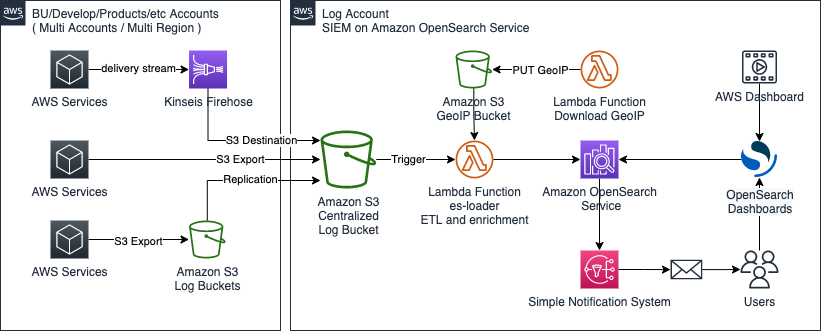
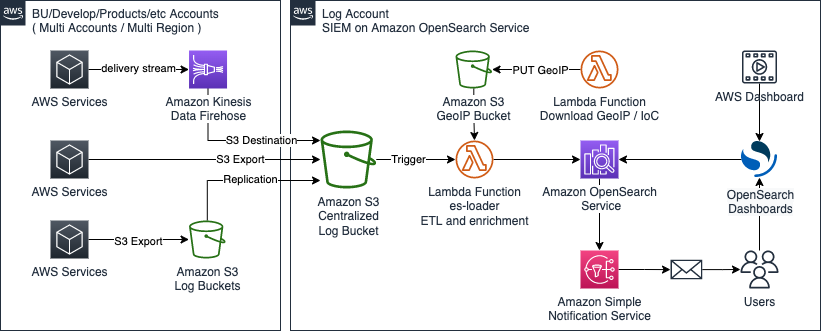
updated docs to add cloudformation template links for all region

diff --git a/docs/cloudformation_list_ja.md b/docs/cloudformation_list_ja.md
@@ -1,0 +1,38 @@
+# CloudFormation テンプレート 全リージョン
+
+[In English](cloudformation_list.md) | [READMEに戻る](../README_ja.md)
+
+SIEM on OpenSearch Service をデプロイするリージョンを選択してください。
+
+| リージョン | CloudFormation | Template URL |
+|----------|----------------|---------------|
+| 米国東部 (バージニア北部) us-east-1 |[![Deploy in us-east-1](./images/cloudformation-launch-stack-button.png)](https://console.aws.amazon.com/cloudformation/home?region=us-east-1#/stacks/new?stackName=siem&templateURL=https://aes-siem-us-east-1.s3.amazonaws.com/siem-on-amazon-opensearch-service.template) | `https://aes-siem-us-east-1.s3.amazonaws.com/siem-on-amazon-opensearch-service.template` |
+| 米国東部 (オハイオ) us-east-2 |[![Deploy in us-east-2](./images/cloudformation-launch-stack-button.png)](https://console.aws.amazon.com/cloudformation/home?region=us-east-2#/stacks/new?stackName=siem&templateURL=https://aes-siem-us-east-2.s3.amazonaws.com/siem-on-amazon-opensearch-service.template) | `https://aes-siem-us-east-2.s3.amazonaws.com/siem-on-amazon-opensearch-service.template` |
+| 米国西部 (北カリフォルニア) us-west-1 |[![Deploy in us-west-1](./images/cloudformation-launch-stack-button.png)](https://console.aws.amazon.com/cloudformation/home?region=us-west-1#/stacks/new?stackName=siem&templateURL=https://aes-siem-us-west-1.s3.amazonaws.com/siem-on-amazon-opensearch-service.template) | `https://aes-siem-us-west-1.s3.amazonaws.com/siem-on-amazon-opensearch-service.template` |
+| 米国西部 (オレゴン) us-west-2 |[![Deploy in us-west-2](./images/cloudformation-launch-stack-button.png)](https://console.aws.amazon.com/cloudformation/home?region=us-west-2#/stacks/new?stackName=siem&templateURL=https://aes-siem-us-west-2.s3.amazonaws.com/siem-on-amazon-opensearch-service.template) | `https://aes-siem-us-west-2.s3.amazonaws.com/siem-on-amazon-opensearch-service.template` |
+||||
+| アフリカ (ケープタウン) af-south-1 |[![Deploy in af-south-1](./images/cloudformation-launch-stack-button.png)](https://console.aws.amazon.com/cloudformation/home?region=af-south-1#/stacks/new?stackName=siem&templateURL=https://aes-siem-af-south-1.s3.amazonaws.com/siem-on-amazon-opensearch-service.template) | `https://aes-siem-af-south-1.s3.amazonaws.com/siem-on-amazon-opensearch-service.template` |
+||||
+| アジアパシフィック (香港) ap-east-1 |[![Deploy in ap-east-1](./images/cloudformation-launch-stack-button.png)](https://console.aws.amazon.com/cloudformation/home?region=ap-east-1#/stacks/new?stackName=siem&templateURL=https://aes-siem-ap-east-1.s3.amazonaws.com/siem-on-amazon-opensearch-service.template) | `https://aes-siem-ap-east-1.s3.amazonaws.com/siem-on-amazon-opensearch-service.template` |
+| アジアパシフィック (ジャカルタ) ap-southeast-3 |[![Deploy in ap-southeast-3](./images/cloudformation-launch-stack-button.png)](https://console.aws.amazon.com/cloudformation/home?region=ap-southeast-3#/stacks/new?stackName=siem&templateURL=https://aes-siem-ap-southeast-3.s3.amazonaws.com/siem-on-amazon-opensearch-service.template) | `https://aes-siem-ap-southeast-3.s3.amazonaws.com/siem-on-amazon-opensearch-service.template` |
+| アジアパシフィック (ムンバイ) ap-south-1 |[![Deploy in ap-south-1](./images/cloudformation-launch-stack-button.png)](https://console.aws.amazon.com/cloudformation/home?region=ap-south-1#/stacks/new?stackName=siem&templateURL=https://aes-siem-ap-south-1.s3.amazonaws.com/siem-on-amazon-opensearch-service.template) | `https://aes-siem-ap-south-1.s3.amazonaws.com/siem-on-amazon-opensearch-service.template` |
+| アジアパシフィック (大阪) ap-northeast-3 (※) |[![Deploy in ap-northeast-3](./images/cloudformation-launch-stack-button.png)](https://console.aws.amazon.com/cloudformation/home?region=ap-northeast-3#/stacks/new?stackName=siem&templateURL=https://aes-siem-ap-northeast-3.s3.amazonaws.com/siem-on-amazon-opensearch-service.template) | `https://aes-siem-ap-northeast-3.s3.amazonaws.com/siem-on-amazon-opensearch-service.template` |
+| アジアパシフィック (ソウル) ap-northeast-2 |[![Deploy in ap-northeast-2](./images/cloudformation-launch-stack-button.png)](https://console.aws.amazon.com/cloudformation/home?region=ap-northeast-2#/stacks/new?stackName=siem&templateURL=https://aes-siem-ap-northeast-2.s3.amazonaws.com/siem-on-amazon-opensearch-service.template) | `https://aes-siem-ap-northeast-2.s3.amazonaws.com/siem-on-amazon-opensearch-service.template` |
+| アジアパシフィック (シンガポール) ap-southeast-1 |[![Deploy in ap-southeast-1](./images/cloudformation-launch-stack-button.png)](https://console.aws.amazon.com/cloudformation/home?region=ap-southeast-1#/stacks/new?stackName=siem&templateURL=https://aes-siem-ap-southeast-1.s3.amazonaws.com/siem-on-amazon-opensearch-service.template) | `https://aes-siem-ap-southeast-1.s3.amazonaws.com/siem-on-amazon-opensearch-service.template` |
+| アジアパシフィック (シドニー) ap-southeast-2 |[![Deploy in ap-southeast-2](./images/cloudformation-launch-stack-button.png)](https://console.aws.amazon.com/cloudformation/home?region=ap-southeast-2#/stacks/new?stackName=siem&templateURL=https://aes-siem-ap-southeast-2.s3.amazonaws.com/siem-on-amazon-opensearch-service.template) | `https://aes-siem-ap-southeast-2.s3.amazonaws.com/siem-on-amazon-opensearch-service.template` |
+| アジアパシフィック (東京) ap-northeast-1 |[![Deploy in ap-northeast-1](./images/cloudformation-launch-stack-button.png)](https://console.aws.amazon.com/cloudformation/home?region=ap-northeast-1#/stacks/new?stackName=siem&templateURL=https://aes-siem-ap-northeast-1.s3.amazonaws.com/siem-on-amazon-opensearch-service.template) | `https://aes-siem-ap-northeast-1.s3.amazonaws.com/siem-on-amazon-opensearch-service.template` |
+||||
+| カナダ (中部) ca-central-1 |[![Deploy in ca-central-1](./images/cloudformation-launch-stack-button.png)](https://console.aws.amazon.com/cloudformation/home?region=ca-central-1#/stacks/new?stackName=siem&templateURL=https://aes-siem-ca-central-1.s3.amazonaws.com/siem-on-amazon-opensearch-service.template) | `https://aes-siem-ca-central-1.s3.amazonaws.com/siem-on-amazon-opensearch-service.template` |
+||||
+| 欧州 (フランクフルト) eu-central-1 |[![Deploy in eu-central-1](./images/cloudformation-launch-stack-button.png)](https://console.aws.amazon.com/cloudformation/home?region=eu-central-1#/stacks/new?stackName=siem&templateURL=https://aes-siem-eu-central-1.s3.amazonaws.com/siem-on-amazon-opensearch-service.template) | `https://aes-siem-eu-central-1.s3.amazonaws.com/siem-on-amazon-opensearch-service.template` |
+| 欧州 (アイルランド) eu-west-1 |[![Deploy in eu-west-1](./images/cloudformation-launch-stack-button.png)](https://console.aws.amazon.com/cloudformation/home?region=eu-west-1#/stacks/new?stackName=siem&templateURL=https://aes-siem-eu-west-1.s3.amazonaws.com/siem-on-amazon-opensearch-service.template) | `https://aes-siem-eu-west-1.s3.amazonaws.com/siem-on-amazon-opensearch-service.template` |
+| 欧州 (ロンドン) eu-west-2 |[![Deploy in eu-west-2](./images/cloudformation-launch-stack-button.png)](https://console.aws.amazon.com/cloudformation/home?region=eu-west-2#/stacks/new?stackName=siem&templateURL=https://aes-siem-eu-west-2.s3.amazonaws.com/siem-on-amazon-opensearch-service.template) | `https://aes-siem-eu-west-2.s3.amazonaws.com/siem-on-amazon-opensearch-service.template` |
+| 欧州 (ミラノ) eu-south-1 |[![Deploy in eu-south-1](./images/cloudformation-launch-stack-button.png)](https://console.aws.amazon.com/cloudformation/home?region=eu-south-1#/stacks/new?stackName=siem&templateURL=https://aes-siem-eu-south-1.s3.amazonaws.com/siem-on-amazon-opensearch-service.template) | `https://aes-siem-eu-south-1.s3.amazonaws.com/siem-on-amazon-opensearch-service.template` |
+| 欧州 (パリ) eu-west-3 |[![Deploy in eu-west-3](./images/cloudformation-launch-stack-button.png)](https://console.aws.amazon.com/cloudformation/home?region=eu-west-3#/stacks/new?stackName=siem&templateURL=https://aes-siem-eu-west-3.s3.amazonaws.com/siem-on-amazon-opensearch-service.template) | `https://aes-siem-eu-west-3.s3.amazonaws.com/siem-on-amazon-opensearch-service.template` |
+| 欧州 (ストックホルム) eu-north-1 |[![Deploy in eu-north-1](./images/cloudformation-launch-stack-button.png)](https://console.aws.amazon.com/cloudformation/home?region=eu-north-1#/stacks/new?stackName=siem&templateURL=https://aes-siem-eu-north-1.s3.amazonaws.com/siem-on-amazon-opensearch-service.template) | `https://aes-siem-eu-north-1.s3.amazonaws.com/siem-on-amazon-opensearch-service.template` |
+||||
+| 中東 (バーレーン) me-south-1 |[![Deploy in me-south-1](./images/cloudformation-launch-stack-button.png)](https://console.aws.amazon.com/cloudformation/home?region=me-south-1#/stacks/new?stackName=siem&templateURL=https://aes-siem-me-south-1.s3.amazonaws.com/siem-on-amazon-opensearch-service.template) | `https://aes-siem-me-south-1.s3.amazonaws.com/siem-on-amazon-opensearch-service.template` |
+||||
+| 南米 (サンパウロ) sa-east-1 |[![Deploy in sa-east-1](./images/cloudformation-launch-stack-button.png)](https://console.aws.amazon.com/cloudformation/home?region=sa-east-1#/stacks/new?stackName=siem&templateURL=https://aes-siem-sa-east-1.s3.amazonaws.com/siem-on-amazon-opensearch-service.template) | `https://aes-siem-sa-east-1.s3.amazonaws.com/siem-on-amazon-opensearch-service.template` |
+
+> (※) 大阪リージョンのみ導入時は r5.large.search インスタンスでデプロイされます

diff --git a/README.md b/README.md
@@ -3,7 +3,7 @@
 
 [View this page in Japanese (日本語)](README_ja.md) | [Chinese (简体中文)](README_zh-cn.md) | [Chinese (繁體中文)](README_zh-tw.md)
 
-SIEM on Amazon OpenSearch Service (successor to SIEM on Amazon Elasticsearch Service) is a solution for collecting multiple types of logs from multiple AWS accounts, correlating and visualizing the logs to help investigate security incidents. Deployment is easily done with the help of AWS CloudFormation or AWS Cloud Development Kit (AWS CDK), taking only about 30 minutes to complete. As soon as AWS services logs are put into a specified Amazon Simple Storage Service (Amazon S3) bucket, a purpose-built AWS Lambda function automatically loads those logs into SIEM on OpenSearch Service, enabling you to view visualized logs in the dashboard and correlate multiple logs to investigate security incidents.
+SIEM on Amazon OpenSearch Service is a solution for collecting multiple types of logs from multiple AWS accounts, correlating and visualizing the logs to help investigate security incidents. Deployment is easily done with the help of AWS CloudFormation or AWS Cloud Development Kit (AWS CDK), taking only about 30 minutes to complete. As soon as AWS services logs are put into a specified Amazon Simple Storage Service (Amazon S3) bucket, a purpose-built AWS Lambda function automatically loads those logs into SIEM on OpenSearch Service, enabling you to view visualized logs in the dashboard and correlate multiple logs to investigate security incidents.
 
 Jump to | [Configuring AWS Services(Log Sources)](docs/configure_aws_service.md) | [Changing Configurations of SIEM on OpenSearch Service](docs/configure_siem.md) | [Advanced Deployment](docs/deployment.md) | [Dashboard](docs/dashboard.md) | [Supported Log Types](docs/suppoted_log_type.md) | [FAQ](docs/faq.md) | [Changelog](CHANGELOG.md) |
 
@@ -11,7 +11,7 @@ Jump to | [Configuring AWS Services(Log Sources)](docs/configure_aws_service.md)
 
 ## Architecture
 
-![Architecture](./docs/images/siem-architecture.png)
+![Architecture](./docs/images/siem-architecture.svg)
 
 ## Supported Log Types
 
@@ -70,22 +70,16 @@ You can add country information as well as latitude/longitude location informati
 
 ### 1. Quick Start
 
-Choose a region where you want to deploy SIEM on OpenSearch Service from the following:
+Choose a region where you want to deploy SIEM on OpenSearch Service from the following. If there is no region below, please check [CloudFormation Template For All Regions](docs/cloudformation_list.md).
 
 | Region | CloudFormation | Template URL |
 |--------|----------------|--------------|
-| US East (N. Virginia)us-east-1 |[![Deploy in us-east-1](./docs/images/cloudformation-launch-stack-button.png)](https://console.aws.amazon.com/cloudformation/home?region=us-east-1#/stacks/new?stackName=siem&templateURL=https://aes-siem-us-east-1.s3.amazonaws.com/siem-on-amazon-opensearch-service.template) | `https://aes-siem-us-east-1.s3.amazonaws.com/siem-on-amazon-opensearch-service.template` |
-| US West (Oregon)us-west-2 |[![Deploy in us-west-2](./docs/images/cloudformation-launch-stack-button.png)](https://console.aws.amazon.com/cloudformation/home?region=us-west-2#/stacks/new?stackName=siem&templateURL=https://aes-siem-us-west-2.s3.amazonaws.com/siem-on-amazon-opensearch-service.template) | `https://aes-siem-us-west-2.s3.amazonaws.com/siem-on-amazon-opensearch-service.template` |
-| Asia Pacific (Tokyo)ap-northeast-1 |[![Deploy in ap-northeast-1](./docs/images/cloudformation-launch-stack-button.png)](https://console.aws.amazon.com/cloudformation/home?region=ap-northeast-1#/stacks/new?stackName=siem&templateURL=https://aes-siem-ap-northeast-1.s3.amazonaws.com/siem-on-amazon-opensearch-service.template) | `https://aes-siem-ap-northeast-1.s3.amazonaws.com/siem-on-amazon-opensearch-service.template` |
-| Asia Pacific (Singapore)ap-southeast-1 |[![Deploy in ap-southeast-1](./docs/images/cloudformation-launch-stack-button.png)](https://console.aws.amazon.com/cloudformation/home?region=ap-southeast-1#/stacks/new?stackName=siem&templateURL=https://aes-siem-ap-southeast-1.s3.amazonaws.com/siem-on-amazon-opensearch-service.template) | `https://aes-siem-ap-southeast-1.s3.amazonaws.com/siem-on-amazon-opensearch-service.template` |
-| Europe (Frankfurt)eu-central-1 |[![Deploy in eu-central-1](./docs/images/cloudformation-launch-stack-button.png)](https://console.aws.amazon.com/cloudformation/home?region=eu-central-1#/stacks/new?stackName=siem&templateURL=https://aes-siem-eu-central-1.s3.amazonaws.com/siem-on-amazon-opensearch-service.template) | `https://aes-siem-eu-central-1.s3.amazonaws.com/siem-on-amazon-opensearch-service.template` |
-| Europe (London)eu-west-2 |[![Deploy in eu-west-2](./docs/images/cloudformation-launch-stack-button.png)](https://console.aws.amazon.com/cloudformation/home?region=eu-west-2#/stacks/new?stackName=siem&templateURL=https://aes-siem-eu-west-2.s3.amazonaws.com/siem-on-amazon-opensearch-service.template) | `https://aes-siem-eu-west-2.s3.amazonaws.com/siem-on-amazon-opensearch-service.template` |
-
-If your desired region is not listed above, manually choose the template below:
-
-```text
-https://aes-siem-<REGION>.s3.amazonaws.com/siem-on-amazon-opensearch-service.template
-```
+| US East (N. Virginia)<br>us-east-1 |[![Deploy in us-east-1](./docs/images/cloudformation-launch-stack-button.png)](https://console.aws.amazon.com/cloudformation/home?region=us-east-1#/stacks/new?stackName=siem&templateURL=https://aes-siem-us-east-1.s3.amazonaws.com/siem-on-amazon-opensearch-service.template) | `https://aes-siem-us-east-1.s3.amazonaws.com/siem-on-amazon-opensearch-service.template` |
+| US West (Oregon)<br>us-west-2 |[![Deploy in us-west-2](./docs/images/cloudformation-launch-stack-button.png)](https://console.aws.amazon.com/cloudformation/home?region=us-west-2#/stacks/new?stackName=siem&templateURL=https://aes-siem-us-west-2.s3.amazonaws.com/siem-on-amazon-opensearch-service.template) | `https://aes-siem-us-west-2.s3.amazonaws.com/siem-on-amazon-opensearch-service.template` |
+| Asia Pacific (Tokyo)<br>ap-northeast-1 |[![Deploy in ap-northeast-1](./docs/images/cloudformation-launch-stack-button.png)](https://console.aws.amazon.com/cloudformation/home?region=ap-northeast-1#/stacks/new?stackName=siem&templateURL=https://aes-siem-ap-northeast-1.s3.amazonaws.com/siem-on-amazon-opensearch-service.template) | `https://aes-siem-ap-northeast-1.s3.amazonaws.com/siem-on-amazon-opensearch-service.template` |
+| Asia Pacific (Singapore)<br>ap-southeast-1 |[![Deploy in ap-southeast-1](./docs/images/cloudformation-launch-stack-button.png)](https://console.aws.amazon.com/cloudformation/home?region=ap-southeast-1#/stacks/new?stackName=siem&templateURL=https://aes-siem-ap-southeast-1.s3.amazonaws.com/siem-on-amazon-opensearch-service.template) | `https://aes-siem-ap-southeast-1.s3.amazonaws.com/siem-on-amazon-opensearch-service.template` |
+| Europe (Frankfurt)<br>eu-central-1 |[![Deploy in eu-central-1](./docs/images/cloudformation-launch-stack-button.png)](https://console.aws.amazon.com/cloudformation/home?region=eu-central-1#/stacks/new?stackName=siem&templateURL=https://aes-siem-eu-central-1.s3.amazonaws.com/siem-on-amazon-opensearch-service.template) | `https://aes-siem-eu-central-1.s3.amazonaws.com/siem-on-amazon-opensearch-service.template` |
+| Europe (London)<br>eu-west-2 |[![Deploy in eu-west-2](./docs/images/cloudformation-launch-stack-button.png)](https://console.aws.amazon.com/cloudformation/home?region=eu-west-2#/stacks/new?stackName=siem&templateURL=https://aes-siem-eu-west-2.s3.amazonaws.com/siem-on-amazon-opensearch-service.template) | `https://aes-siem-eu-west-2.s3.amazonaws.com/siem-on-amazon-opensearch-service.template` |
 
 Or you can create your own template by following the steps below.
 
@@ -178,12 +172,12 @@ If you want to update "SIEM on OpenSearch Service/SIEM on Amazon ES" to the late
 
 ### Upgrading the OpenSearch Service domain
 
-Upgrade the domain to OpenSearch 1.2, 1.1, 1.0 or Elasticsearch version 7.10. Some Dashboards assume OpenSearch Service 1.1 or higher, so the recommended version is OpenSearch Service 1.2 with "Enable compatibility mode":
+Upgrade the domain to OpenSearch 1.3, 1.2, 1.1, 1.0 or Elasticsearch version 7.10. Some Dashboards assume OpenSearch Service 1.1 or higher, so the recommended version is OpenSearch Service 1.3 with "Enable compatibility mode":
 
 1. Navigate to the [OpenSearch Service console](https://console.aws.amazon.com/es/home?)
 1. Choose domain: [**aes-siem**]
 1. Choose [**Actions**] icon, and choose [**Upgrade domain**] from the drop-down menu
-1. For "Version to upgrade to", choose [**OpenSearch 1.2**] (Recommended), [**OpenSearch 1.1**], [**OpenSearch 1.0**] or [**Elasticsearch 7.10**]
+1. For "Version to upgrade to", choose [**OpenSearch 1.3**] (Recommended), [**OpenSearch 1.2**], [**OpenSearch 1.1**], [**OpenSearch 1.0**] or [**Elasticsearch 7.10**]
 1. Choose "Enable compatibility mode" (Recommended)
 1. Then choose [**Submit**]
 
@@ -230,7 +224,7 @@ Below is the list of AWS resources created by the CloudFormation template. AWS I
 
 |AWS Resource|Resource Name|Purpose|
 |------------|----|----|
-|OpenSearch Service 1.X or Elasticsearch 7.X|aes-siem|SIEM itself|
+|OpenSearch Service|aes-siem|SIEM itself|
 |S3 bucket|aes-siem-[AWS_Account]-log|For collecting logs|
 |S3 bucket|aes-siem-[AWS_Account]-snapshot|For capturing manual snapshots of OpenSearch Service|
 |S3 bucket|aes-siem-[AWS_Account]-geo|For storing downloaded GeoIPs|

diff --git a/docs/cloudformation_list.md b/docs/cloudformation_list.md
@@ -1,0 +1,38 @@
+# CloudFormation Template For All Region
+
+[View this page in Japanese (日本語)](cloudformation_list_ja.md) | [Chinese (简体中文)](cloudformation_list_zh-cn.md) | [Chinese (繁體中文)](cloudformation_list_zh-tw.md) | [Back to README](../README.md)
+
+Choose a region where you want to deploy SIEM on OpenSearch Service from the following:
+
+| Region | CloudFormation | Template URL |
+|----------|----------------|---------------|
+| US East (N. Virginia) us-east-1 |[![Deploy in us-east-1](./images/cloudformation-launch-stack-button.png)](https://console.aws.amazon.com/cloudformation/home?region=us-east-1#/stacks/new?stackName=siem&templateURL=https://aes-siem-us-east-1.s3.amazonaws.com/siem-on-amazon-opensearch-service.template) | `https://aes-siem-us-east-1.s3.amazonaws.com/siem-on-amazon-opensearch-service.template` |
+| US East (Ohio) us-east-2 |[![Deploy in us-east-2](./images/cloudformation-launch-stack-button.png)](https://console.aws.amazon.com/cloudformation/home?region=us-east-2#/stacks/new?stackName=siem&templateURL=https://aes-siem-us-east-2.s3.amazonaws.com/siem-on-amazon-opensearch-service.template) | `https://aes-siem-us-east-2.s3.amazonaws.com/siem-on-amazon-opensearch-service.template` |
+| US West (N. California) us-west-1 |[![Deploy in us-west-1](./images/cloudformation-launch-stack-button.png)](https://console.aws.amazon.com/cloudformation/home?region=us-west-1#/stacks/new?stackName=siem&templateURL=https://aes-siem-us-west-1.s3.amazonaws.com/siem-on-amazon-opensearch-service.template) | `https://aes-siem-us-west-1.s3.amazonaws.com/siem-on-amazon-opensearch-service.template` |
+| US West (Oregon) us-west-2 |[![Deploy in us-west-2](./images/cloudformation-launch-stack-button.png)](https://console.aws.amazon.com/cloudformation/home?region=us-west-2#/stacks/new?stackName=siem&templateURL=https://aes-siem-us-west-2.s3.amazonaws.com/siem-on-amazon-opensearch-service.template) | `https://aes-siem-us-west-2.s3.amazonaws.com/siem-on-amazon-opensearch-service.template` |
+||||
+| Africa (Cape Town) af-south-1 |[![Deploy in af-south-1](./images/cloudformation-launch-stack-button.png)](https://console.aws.amazon.com/cloudformation/home?region=af-south-1#/stacks/new?stackName=siem&templateURL=https://aes-siem-af-south-1.s3.amazonaws.com/siem-on-amazon-opensearch-service.template) | `https://aes-siem-af-south-1.s3.amazonaws.com/siem-on-amazon-opensearch-service.template` |
+||||
+| Asia Pacific (Hong Kong) ap-east-1 |[![Deploy in ap-east-1](./images/cloudformation-launch-stack-button.png)](https://console.aws.amazon.com/cloudformation/home?region=ap-east-1#/stacks/new?stackName=siem&templateURL=https://aes-siem-ap-east-1.s3.amazonaws.com/siem-on-amazon-opensearch-service.template) | `https://aes-siem-ap-east-1.s3.amazonaws.com/siem-on-amazon-opensearch-service.template` |
+| Asia Pacific (Jakarta) ap-southeast-3 |[![Deploy in ap-southeast-3](./images/cloudformation-launch-stack-button.png)](https://console.aws.amazon.com/cloudformation/home?region=ap-southeast-3#/stacks/new?stackName=siem&templateURL=https://aes-siem-ap-southeast-3.s3.amazonaws.com/siem-on-amazon-opensearch-service.template) | `https://aes-siem-ap-southeast-3.s3.amazonaws.com/siem-on-amazon-opensearch-service.template` |
+| Asia Pacific (Mumbai) ap-south-1 |[![Deploy in ap-south-1](./images/cloudformation-launch-stack-button.png)](https://console.aws.amazon.com/cloudformation/home?region=ap-south-1#/stacks/new?stackName=siem&templateURL=https://aes-siem-ap-south-1.s3.amazonaws.com/siem-on-amazon-opensearch-service.template) | `https://aes-siem-ap-south-1.s3.amazonaws.com/siem-on-amazon-opensearch-service.template` |
+| Asia Pacific (Osaka) ap-northeast-3 (*) |[![Deploy in ap-northeast-3](./images/cloudformation-launch-stack-button.png)](https://console.aws.amazon.com/cloudformation/home?region=ap-northeast-3#/stacks/new?stackName=siem&templateURL=https://aes-siem-ap-northeast-3.s3.amazonaws.com/siem-on-amazon-opensearch-service.template) | `https://aes-siem-ap-northeast-3.s3.amazonaws.com/siem-on-amazon-opensearch-service.template` |
+| Asia Pacific (Seoul) ap-northeast-2 |[![Deploy in ap-northeast-2](./images/cloudformation-launch-stack-button.png)](https://console.aws.amazon.com/cloudformation/home?region=ap-northeast-2#/stacks/new?stackName=siem&templateURL=https://aes-siem-ap-northeast-2.s3.amazonaws.com/siem-on-amazon-opensearch-service.template) | `https://aes-siem-ap-northeast-2.s3.amazonaws.com/siem-on-amazon-opensearch-service.template` |
+| Asia Pacific (Singapore) ap-southeast-1 |[![Deploy in ap-southeast-1](./images/cloudformation-launch-stack-button.png)](https://console.aws.amazon.com/cloudformation/home?region=ap-southeast-1#/stacks/new?stackName=siem&templateURL=https://aes-siem-ap-southeast-1.s3.amazonaws.com/siem-on-amazon-opensearch-service.template) | `https://aes-siem-ap-southeast-1.s3.amazonaws.com/siem-on-amazon-opensearch-service.template` |
+| Asia Pacific (Sydney) ap-southeast-2 |[![Deploy in ap-southeast-2](./images/cloudformation-launch-stack-button.png)](https://console.aws.amazon.com/cloudformation/home?region=ap-southeast-2#/stacks/new?stackName=siem&templateURL=https://aes-siem-ap-southeast-2.s3.amazonaws.com/siem-on-amazon-opensearch-service.template) | `https://aes-siem-ap-southeast-2.s3.amazonaws.com/siem-on-amazon-opensearch-service.template` |
+| Asia Pacific (Tokyo) ap-northeast-1 |[![Deploy in ap-northeast-1](./images/cloudformation-launch-stack-button.png)](https://console.aws.amazon.com/cloudformation/home?region=ap-northeast-1#/stacks/new?stackName=siem&templateURL=https://aes-siem-ap-northeast-1.s3.amazonaws.com/siem-on-amazon-opensearch-service.template) | `https://aes-siem-ap-northeast-1.s3.amazonaws.com/siem-on-amazon-opensearch-service.template` |
+||||
+| Canada (Central) ca-central-1 |[![Deploy in ca-central-1](./images/cloudformation-launch-stack-button.png)](https://console.aws.amazon.com/cloudformation/home?region=ca-central-1#/stacks/new?stackName=siem&templateURL=https://aes-siem-ca-central-1.s3.amazonaws.com/siem-on-amazon-opensearch-service.template) | `https://aes-siem-ca-central-1.s3.amazonaws.com/siem-on-amazon-opensearch-service.template` |
+||||
+| Europe (Frankfurt) eu-central-1 |[![Deploy in eu-central-1](./images/cloudformation-launch-stack-button.png)](https://console.aws.amazon.com/cloudformation/home?region=eu-central-1#/stacks/new?stackName=siem&templateURL=https://aes-siem-eu-central-1.s3.amazonaws.com/siem-on-amazon-opensearch-service.template) | `https://aes-siem-eu-central-1.s3.amazonaws.com/siem-on-amazon-opensearch-service.template` |
+| Europe (Ireland) eu-west-1 |[![Deploy in eu-west-1](./images/cloudformation-launch-stack-button.png)](https://console.aws.amazon.com/cloudformation/home?region=eu-west-1#/stacks/new?stackName=siem&templateURL=https://aes-siem-eu-west-1.s3.amazonaws.com/siem-on-amazon-opensearch-service.template) | `https://aes-siem-eu-west-1.s3.amazonaws.com/siem-on-amazon-opensearch-service.template` |
+| Europe (London) eu-west-2 |[![Deploy in eu-west-2](./images/cloudformation-launch-stack-button.png)](https://console.aws.amazon.com/cloudformation/home?region=eu-west-2#/stacks/new?stackName=siem&templateURL=https://aes-siem-eu-west-2.s3.amazonaws.com/siem-on-amazon-opensearch-service.template) | `https://aes-siem-eu-west-2.s3.amazonaws.com/siem-on-amazon-opensearch-service.template` |
+| Europe (Milan) eu-south-1 |[![Deploy in eu-south-1](./images/cloudformation-launch-stack-button.png)](https://console.aws.amazon.com/cloudformation/home?region=eu-south-1#/stacks/new?stackName=siem&templateURL=https://aes-siem-eu-south-1.s3.amazonaws.com/siem-on-amazon-opensearch-service.template) | `https://aes-siem-eu-south-1.s3.amazonaws.com/siem-on-amazon-opensearch-service.template` |
+| Europe (Paris) eu-west-3 |[![Deploy in eu-west-3](./images/cloudformation-launch-stack-button.png)](https://console.aws.amazon.com/cloudformation/home?region=eu-west-3#/stacks/new?stackName=siem&templateURL=https://aes-siem-eu-west-3.s3.amazonaws.com/siem-on-amazon-opensearch-service.template) | `https://aes-siem-eu-west-3.s3.amazonaws.com/siem-on-amazon-opensearch-service.template` |
+| Europe (Stockholm) eu-north-1 |[![Deploy in eu-north-1](./images/cloudformation-launch-stack-button.png)](https://console.aws.amazon.com/cloudformation/home?region=eu-north-1#/stacks/new?stackName=siem&templateURL=https://aes-siem-eu-north-1.s3.amazonaws.com/siem-on-amazon-opensearch-service.template) | `https://aes-siem-eu-north-1.s3.amazonaws.com/siem-on-amazon-opensearch-service.template` |
+||||
+| Middle East (Bahrain) me-south-1 |[![Deploy in me-south-1](./images/cloudformation-launch-stack-button.png)](https://console.aws.amazon.com/cloudformation/home?region=me-south-1#/stacks/new?stackName=siem&templateURL=https://aes-siem-me-south-1.s3.amazonaws.com/siem-on-amazon-opensearch-service.template) | `https://aes-siem-me-south-1.s3.amazonaws.com/siem-on-amazon-opensearch-service.template` |
+||||
+| South America (São Paulo) sa-east-1 |[![Deploy in sa-east-1](./images/cloudformation-launch-stack-button.png)](https://console.aws.amazon.com/cloudformation/home?region=sa-east-1#/stacks/new?stackName=siem&templateURL=https://aes-siem-sa-east-1.s3.amazonaws.com/siem-on-amazon-opensearch-service.template) | `https://aes-siem-sa-east-1.s3.amazonaws.com/siem-on-amazon-opensearch-service.template` |
+
+> (*) When deploying only in the Osaka region, it will be deployed with an r5.large.search instance

diff --git a/docs/cloudformation_list_zh-cn.md b/docs/cloudformation_list_zh-cn.md
@@ -1,0 +1,38 @@
+# CloudFormation Template For All Region
+
+[In English](cloudformation_list.md) | [Back to README](../README_zh-cn.md)
+
+通过以下选项，选择SIEM on OpenSearch Service部署所在的区域：
+
+| 区域 | CloudFormation | Template URL |
+|----------|----------------|---------------|
+| 美国东部 (弗吉尼亚北部) us-east-1 |[![Deploy in us-east-1](./images/cloudformation-launch-stack-button.png)](https://console.aws.amazon.com/cloudformation/home?region=us-east-1#/stacks/new?stackName=siem&templateURL=https://aes-siem-us-east-1.s3.amazonaws.com/siem-on-amazon-opensearch-service.template) | `https://aes-siem-us-east-1.s3.amazonaws.com/siem-on-amazon-opensearch-service.template` |
+| 美国东部 (俄亥俄州) us-east-2 |[![Deploy in us-east-2](./images/cloudformation-launch-stack-button.png)](https://console.aws.amazon.com/cloudformation/home?region=us-east-2#/stacks/new?stackName=siem&templateURL=https://aes-siem-us-east-2.s3.amazonaws.com/siem-on-amazon-opensearch-service.template) | `https://aes-siem-us-east-2.s3.amazonaws.com/siem-on-amazon-opensearch-service.template` |
+| 美国西部 (加利福尼亚北部) us-west-1 |[![Deploy in us-west-1](./images/cloudformation-launch-stack-button.png)](https://console.aws.amazon.com/cloudformation/home?region=us-west-1#/stacks/new?stackName=siem&templateURL=https://aes-siem-us-west-1.s3.amazonaws.com/siem-on-amazon-opensearch-service.template) | `https://aes-siem-us-west-1.s3.amazonaws.com/siem-on-amazon-opensearch-service.template` |
+| 美国西部 (俄勒冈) us-west-2 |[![Deploy in us-west-2](./images/cloudformation-launch-stack-button.png)](https://console.aws.amazon.com/cloudformation/home?region=us-west-2#/stacks/new?stackName=siem&templateURL=https://aes-siem-us-west-2.s3.amazonaws.com/siem-on-amazon-opensearch-service.template) | `https://aes-siem-us-west-2.s3.amazonaws.com/siem-on-amazon-opensearch-service.template` |
+||||
+| 非洲 (开普敦) af-south-1 |[![Deploy in af-south-1](./images/cloudformation-launch-stack-button.png)](https://console.aws.amazon.com/cloudformation/home?region=af-south-1#/stacks/new?stackName=siem&templateURL=https://aes-siem-af-south-1.s3.amazonaws.com/siem-on-amazon-opensearch-service.template) | `https://aes-siem-af-south-1.s3.amazonaws.com/siem-on-amazon-opensearch-service.template` |
+||||
+| 亚太地区 (香港) ap-east-1 |[![Deploy in ap-east-1](./images/cloudformation-launch-stack-button.png)](https://console.aws.amazon.com/cloudformation/home?region=ap-east-1#/stacks/new?stackName=siem&templateURL=https://aes-siem-ap-east-1.s3.amazonaws.com/siem-on-amazon-opensearch-service.template) | `https://aes-siem-ap-east-1.s3.amazonaws.com/siem-on-amazon-opensearch-service.template` |
+| 亚太地区 (雅加达) ap-southeast-3 |[![Deploy in ap-southeast-3](./images/cloudformation-launch-stack-button.png)](https://console.aws.amazon.com/cloudformation/home?region=ap-southeast-3#/stacks/new?stackName=siem&templateURL=https://aes-siem-ap-southeast-3.s3.amazonaws.com/siem-on-amazon-opensearch-service.template) | `https://aes-siem-ap-southeast-3.s3.amazonaws.com/siem-on-amazon-opensearch-service.template` |
+| 亚太地区 (孟买) ap-south-1 |[![Deploy in ap-south-1](./images/cloudformation-launch-stack-button.png)](https://console.aws.amazon.com/cloudformation/home?region=ap-south-1#/stacks/new?stackName=siem&templateURL=https://aes-siem-ap-south-1.s3.amazonaws.com/siem-on-amazon-opensearch-service.template) | `https://aes-siem-ap-south-1.s3.amazonaws.com/siem-on-amazon-opensearch-service.template` |
+| 亚太地区 (大阪) ap-northeast-3 (※) |[![Deploy in ap-northeast-3](./images/cloudformation-launch-stack-button.png)](https://console.aws.amazon.com/cloudformation/home?region=ap-northeast-3#/stacks/new?stackName=siem&templateURL=https://aes-siem-ap-northeast-3.s3.amazonaws.com/siem-on-amazon-opensearch-service.template) | `https://aes-siem-ap-northeast-3.s3.amazonaws.com/siem-on-amazon-opensearch-service.template` |
+| 亚太地区 (首尔) ap-northeast-2 |[![Deploy in ap-northeast-2](./images/cloudformation-launch-stack-button.png)](https://console.aws.amazon.com/cloudformation/home?region=ap-northeast-2#/stacks/new?stackName=siem&templateURL=https://aes-siem-ap-northeast-2.s3.amazonaws.com/siem-on-amazon-opensearch-service.template) | `https://aes-siem-ap-northeast-2.s3.amazonaws.com/siem-on-amazon-opensearch-service.template` |
+| 亚太地区 (新加坡) ap-southeast-1 |[![Deploy in ap-southeast-1](./images/cloudformation-launch-stack-button.png)](https://console.aws.amazon.com/cloudformation/home?region=ap-southeast-1#/stacks/new?stackName=siem&templateURL=https://aes-siem-ap-southeast-1.s3.amazonaws.com/siem-on-amazon-opensearch-service.template) | `https://aes-siem-ap-southeast-1.s3.amazonaws.com/siem-on-amazon-opensearch-service.template` |
+| 亚太地区 (悉尼) ap-southeast-2 |[![Deploy in ap-southeast-2](./images/cloudformation-launch-stack-button.png)](https://console.aws.amazon.com/cloudformation/home?region=ap-southeast-2#/stacks/new?stackName=siem&templateURL=https://aes-siem-ap-southeast-2.s3.amazonaws.com/siem-on-amazon-opensearch-service.template) | `https://aes-siem-ap-southeast-2.s3.amazonaws.com/siem-on-amazon-opensearch-service.template` |
+| 亚太区域 (东京) ap-northeast-1 |[![Deploy in ap-northeast-1](./images/cloudformation-launch-stack-button.png)](https://console.aws.amazon.com/cloudformation/home?region=ap-northeast-1#/stacks/new?stackName=siem&templateURL=https://aes-siem-ap-northeast-1.s3.amazonaws.com/siem-on-amazon-opensearch-service.template) | `https://aes-siem-ap-northeast-1.s3.amazonaws.com/siem-on-amazon-opensearch-service.template` |
+||||
+| 加拿大 (中部) ca-central-1 |[![Deploy in ca-central-1](./images/cloudformation-launch-stack-button.png)](https://console.aws.amazon.com/cloudformation/home?region=ca-central-1#/stacks/new?stackName=siem&templateURL=https://aes-siem-ca-central-1.s3.amazonaws.com/siem-on-amazon-opensearch-service.template) | `https://aes-siem-ca-central-1.s3.amazonaws.com/siem-on-amazon-opensearch-service.template` |
+||||
+| 欧洲 (法兰克福) eu-central-1 |[![Deploy in eu-central-1](./images/cloudformation-launch-stack-button.png)](https://console.aws.amazon.com/cloudformation/home?region=eu-central-1#/stacks/new?stackName=siem&templateURL=https://aes-siem-eu-central-1.s3.amazonaws.com/siem-on-amazon-opensearch-service.template) | `https://aes-siem-eu-central-1.s3.amazonaws.com/siem-on-amazon-opensearch-service.template` |
+| 欧洲 (爱尔兰) eu-west-1 |[![Deploy in eu-west-1](./images/cloudformation-launch-stack-button.png)](https://console.aws.amazon.com/cloudformation/home?region=eu-west-1#/stacks/new?stackName=siem&templateURL=https://aes-siem-eu-west-1.s3.amazonaws.com/siem-on-amazon-opensearch-service.template) | `https://aes-siem-eu-west-1.s3.amazonaws.com/siem-on-amazon-opensearch-service.template` |
+| 欧洲 (伦敦) eu-west-2 |[![Deploy in eu-west-2](./images/cloudformation-launch-stack-button.png)](https://console.aws.amazon.com/cloudformation/home?region=eu-west-2#/stacks/new?stackName=siem&templateURL=https://aes-siem-eu-west-2.s3.amazonaws.com/siem-on-amazon-opensearch-service.template) | `https://aes-siem-eu-west-2.s3.amazonaws.com/siem-on-amazon-opensearch-service.template` |
+| 欧洲 (米兰) eu-south-1 |[![Deploy in eu-south-1](./images/cloudformation-launch-stack-button.png)](https://console.aws.amazon.com/cloudformation/home?region=eu-south-1#/stacks/new?stackName=siem&templateURL=https://aes-siem-eu-south-1.s3.amazonaws.com/siem-on-amazon-opensearch-service.template) | `https://aes-siem-eu-south-1.s3.amazonaws.com/siem-on-amazon-opensearch-service.template` |
+| 欧洲 (巴黎) eu-west-3 |[![Deploy in eu-west-3](./images/cloudformation-launch-stack-button.png)](https://console.aws.amazon.com/cloudformation/home?region=eu-west-3#/stacks/new?stackName=siem&templateURL=https://aes-siem-eu-west-3.s3.amazonaws.com/siem-on-amazon-opensearch-service.template) | `https://aes-siem-eu-west-3.s3.amazonaws.com/siem-on-amazon-opensearch-service.template` |
+| 欧洲 (斯德哥尔摩) eu-north-1 |[![Deploy in eu-north-1](./images/cloudformation-launch-stack-button.png)](https://console.aws.amazon.com/cloudformation/home?region=eu-north-1#/stacks/new?stackName=siem&templateURL=https://aes-siem-eu-north-1.s3.amazonaws.com/siem-on-amazon-opensearch-service.template) | `https://aes-siem-eu-north-1.s3.amazonaws.com/siem-on-amazon-opensearch-service.template` |
+||||
+| 中东 (巴林) me-south-1 |[![Deploy in me-south-1](./images/cloudformation-launch-stack-button.png)](https://console.aws.amazon.com/cloudformation/home?region=me-south-1#/stacks/new?stackName=siem&templateURL=https://aes-siem-me-south-1.s3.amazonaws.com/siem-on-amazon-opensearch-service.template) | `https://aes-siem-me-south-1.s3.amazonaws.com/siem-on-amazon-opensearch-service.template` |
+||||
+| 南美洲 (圣保罗) sa-east-1 |[![Deploy in sa-east-1](./images/cloudformation-launch-stack-button.png)](https://console.aws.amazon.com/cloudformation/home?region=sa-east-1#/stacks/new?stackName=siem&templateURL=https://aes-siem-sa-east-1.s3.amazonaws.com/siem-on-amazon-opensearch-service.template) | `https://aes-siem-sa-east-1.s3.amazonaws.com/siem-on-amazon-opensearch-service.template` |
+
+> (*) When deploying only in the Osaka region, it will be deployed with an r5.large.search instance

diff --git a/docs/cloudformation_list_zh-tw.md b/docs/cloudformation_list_zh-tw.md
@@ -1,0 +1,38 @@
+# CloudFormation Template For All Region
+
+[In English](cloudformation_list.md) | [Back to README](../README_zh-tw.md)
+
+通過以下選項，選擇SIEM on OpenSearch Service部署所在的區域：
+
+| 區域 | CloudFormation | Template URL |
+|----------|----------------|---------------|
+| 美國東部 (維吉尼亞北部) us-east-1 |[![Deploy in us-east-1](./images/cloudformation-launch-stack-button.png)](https://console.aws.amazon.com/cloudformation/home?region=us-east-1#/stacks/new?stackName=siem&templateURL=https://aes-siem-us-east-1.s3.amazonaws.com/siem-on-amazon-opensearch-service.template) | `https://aes-siem-us-east-1.s3.amazonaws.com/siem-on-amazon-opensearch-service.template` |
+| 美國東部 (俄亥俄) us-east-2 |[![Deploy in us-east-2](./images/cloudformation-launch-stack-button.png)](https://console.aws.amazon.com/cloudformation/home?region=us-east-2#/stacks/new?stackName=siem&templateURL=https://aes-siem-us-east-2.s3.amazonaws.com/siem-on-amazon-opensearch-service.template) | `https://aes-siem-us-east-2.s3.amazonaws.com/siem-on-amazon-opensearch-service.template` |
+| 美國西部 (加利佛尼亞北部) us-west-1 |[![Deploy in us-west-1](./images/cloudformation-launch-stack-button.png)](https://console.aws.amazon.com/cloudformation/home?region=us-west-1#/stacks/new?stackName=siem&templateURL=https://aes-siem-us-west-1.s3.amazonaws.com/siem-on-amazon-opensearch-service.template) | `https://aes-siem-us-west-1.s3.amazonaws.com/siem-on-amazon-opensearch-service.template` |
+| 美國西部 (奧勒岡) us-west-2 |[![Deploy in us-west-2](./images/cloudformation-launch-stack-button.png)](https://console.aws.amazon.com/cloudformation/home?region=us-west-2#/stacks/new?stackName=siem&templateURL=https://aes-siem-us-west-2.s3.amazonaws.com/siem-on-amazon-opensearch-service.template) | `https://aes-siem-us-west-2.s3.amazonaws.com/siem-on-amazon-opensearch-service.template` |
+||||
+| 非洲 (開普敦) af-south-1 |[![Deploy in af-south-1](./images/cloudformation-launch-stack-button.png)](https://console.aws.amazon.com/cloudformation/home?region=af-south-1#/stacks/new?stackName=siem&templateURL=https://aes-siem-af-south-1.s3.amazonaws.com/siem-on-amazon-opensearch-service.template) | `https://aes-siem-af-south-1.s3.amazonaws.com/siem-on-amazon-opensearch-service.template` |
+||||
+| 亞太區域 (香港) ap-east-1 |[![Deploy in ap-east-1](./images/cloudformation-launch-stack-button.png)](https://console.aws.amazon.com/cloudformation/home?region=ap-east-1#/stacks/new?stackName=siem&templateURL=https://aes-siem-ap-east-1.s3.amazonaws.com/siem-on-amazon-opensearch-service.template) | `https://aes-siem-ap-east-1.s3.amazonaws.com/siem-on-amazon-opensearch-service.template` |
+| 亞太區域 (雅加達) ap-southeast-3 |[![Deploy in ap-southeast-3](./images/cloudformation-launch-stack-button.png)](https://console.aws.amazon.com/cloudformation/home?region=ap-southeast-3#/stacks/new?stackName=siem&templateURL=https://aes-siem-ap-southeast-3.s3.amazonaws.com/siem-on-amazon-opensearch-service.template) | `https://aes-siem-ap-southeast-3.s3.amazonaws.com/siem-on-amazon-opensearch-service.template` |
+| 亞太區域 (孟買) ap-south-1 |[![Deploy in ap-south-1](./images/cloudformation-launch-stack-button.png)](https://console.aws.amazon.com/cloudformation/home?region=ap-south-1#/stacks/new?stackName=siem&templateURL=https://aes-siem-ap-south-1.s3.amazonaws.com/siem-on-amazon-opensearch-service.template) | `https://aes-siem-ap-south-1.s3.amazonaws.com/siem-on-amazon-opensearch-service.template` |
+| 亞太區域 (大阪) ap-northeast-3 (※) |[![Deploy in ap-northeast-3](./images/cloudformation-launch-stack-button.png)](https://console.aws.amazon.com/cloudformation/home?region=ap-northeast-3#/stacks/new?stackName=siem&templateURL=https://aes-siem-ap-northeast-3.s3.amazonaws.com/siem-on-amazon-opensearch-service.template) | `https://aes-siem-ap-northeast-3.s3.amazonaws.com/siem-on-amazon-opensearch-service.template` |
+| 亞太區域 (首爾) ap-northeast-2 |[![Deploy in ap-northeast-2](./images/cloudformation-launch-stack-button.png)](https://console.aws.amazon.com/cloudformation/home?region=ap-northeast-2#/stacks/new?stackName=siem&templateURL=https://aes-siem-ap-northeast-2.s3.amazonaws.com/siem-on-amazon-opensearch-service.template) | `https://aes-siem-ap-northeast-2.s3.amazonaws.com/siem-on-amazon-opensearch-service.template` |
+| 亞太區域 (新加坡) ap-southeast-1 |[![Deploy in ap-southeast-1](./images/cloudformation-launch-stack-button.png)](https://console.aws.amazon.com/cloudformation/home?region=ap-southeast-1#/stacks/new?stackName=siem&templateURL=https://aes-siem-ap-southeast-1.s3.amazonaws.com/siem-on-amazon-opensearch-service.template) | `https://aes-siem-ap-southeast-1.s3.amazonaws.com/siem-on-amazon-opensearch-service.template` |
+| 亞太區域 (雪梨) ap-southeast-2 |[![Deploy in ap-southeast-2](./images/cloudformation-launch-stack-button.png)](https://console.aws.amazon.com/cloudformation/home?region=ap-southeast-2#/stacks/new?stackName=siem&templateURL=https://aes-siem-ap-southeast-2.s3.amazonaws.com/siem-on-amazon-opensearch-service.template) | `https://aes-siem-ap-southeast-2.s3.amazonaws.com/siem-on-amazon-opensearch-service.template` |
+| 亞太區域 (東京) ap-northeast-1 |[![Deploy in ap-northeast-1](./images/cloudformation-launch-stack-button.png)](https://console.aws.amazon.com/cloudformation/home?region=ap-northeast-1#/stacks/new?stackName=siem&templateURL=https://aes-siem-ap-northeast-1.s3.amazonaws.com/siem-on-amazon-opensearch-service.template) | `https://aes-siem-ap-northeast-1.s3.amazonaws.com/siem-on-amazon-opensearch-service.template` |
+||||
+| 加拿大 (中部) ca-central-1 |[![Deploy in ca-central-1](./images/cloudformation-launch-stack-button.png)](https://console.aws.amazon.com/cloudformation/home?region=ca-central-1#/stacks/new?stackName=siem&templateURL=https://aes-siem-ca-central-1.s3.amazonaws.com/siem-on-amazon-opensearch-service.template) | `https://aes-siem-ca-central-1.s3.amazonaws.com/siem-on-amazon-opensearch-service.template` |
+||||
+| 歐洲 (法蘭克福) eu-central-1 |[![Deploy in eu-central-1](./images/cloudformation-launch-stack-button.png)](https://console.aws.amazon.com/cloudformation/home?region=eu-central-1#/stacks/new?stackName=siem&templateURL=https://aes-siem-eu-central-1.s3.amazonaws.com/siem-on-amazon-opensearch-service.template) | `https://aes-siem-eu-central-1.s3.amazonaws.com/siem-on-amazon-opensearch-service.template` |
+| 歐洲 (愛爾蘭) |[![Deploy in eu-west-1](./images/cloudformation-launch-stack-button.png)](https://console.aws.amazon.com/cloudformation/home?region=eu-west-1#/stacks/new?stackName=siem&templateURL=https://aes-siem-eu-west-1.s3.amazonaws.com/siem-on-amazon-opensearch-service.template) | `https://aes-siem-eu-west-1.s3.amazonaws.com/siem-on-amazon-opensearch-service.template` |
+| 歐洲 (倫敦) eu-west-2 |[![Deploy in eu-west-2](./images/cloudformation-launch-stack-button.png)](https://console.aws.amazon.com/cloudformation/home?region=eu-west-2#/stacks/new?stackName=siem&templateURL=https://aes-siem-eu-west-2.s3.amazonaws.com/siem-on-amazon-opensearch-service.template) | `https://aes-siem-eu-west-2.s3.amazonaws.com/siem-on-amazon-opensearch-service.template` |
+| 歐洲 (米蘭) eu-south-1 |[![Deploy in eu-south-1](./images/cloudformation-launch-stack-button.png)](https://console.aws.amazon.com/cloudformation/home?region=eu-south-1#/stacks/new?stackName=siem&templateURL=https://aes-siem-eu-south-1.s3.amazonaws.com/siem-on-amazon-opensearch-service.template) | `https://aes-siem-eu-south-1.s3.amazonaws.com/siem-on-amazon-opensearch-service.template` |
+| 歐洲 (巴黎) eu-west-3 |[![Deploy in eu-west-3](./images/cloudformation-launch-stack-button.png)](https://console.aws.amazon.com/cloudformation/home?region=eu-west-3#/stacks/new?stackName=siem&templateURL=https://aes-siem-eu-west-3.s3.amazonaws.com/siem-on-amazon-opensearch-service.template) | `https://aes-siem-eu-west-3.s3.amazonaws.com/siem-on-amazon-opensearch-service.template` |
+| 歐洲 (斯德哥爾摩) eu-north-1 |[![Deploy in eu-north-1](./images/cloudformation-launch-stack-button.png)](https://console.aws.amazon.com/cloudformation/home?region=eu-north-1#/stacks/new?stackName=siem&templateURL=https://aes-siem-eu-north-1.s3.amazonaws.com/siem-on-amazon-opensearch-service.template) | `https://aes-siem-eu-north-1.s3.amazonaws.com/siem-on-amazon-opensearch-service.template` |
+||||
+| 中東 (巴林) me-south-1 |[![Deploy in me-south-1](./images/cloudformation-launch-stack-button.png)](https://console.aws.amazon.com/cloudformation/home?region=me-south-1#/stacks/new?stackName=siem&templateURL=https://aes-siem-me-south-1.s3.amazonaws.com/siem-on-amazon-opensearch-service.template) | `https://aes-siem-me-south-1.s3.amazonaws.com/siem-on-amazon-opensearch-service.template` |
+||||
+| 南美洲 (聖保羅) sa-east-1 |[![Deploy in sa-east-1](./images/cloudformation-launch-stack-button.png)](https://console.aws.amazon.com/cloudformation/home?region=sa-east-1#/stacks/new?stackName=siem&templateURL=https://aes-siem-sa-east-1.s3.amazonaws.com/siem-on-amazon-opensearch-service.template) | `https://aes-siem-sa-east-1.s3.amazonaws.com/siem-on-amazon-opensearch-service.template` |
+
+> (*) When deploying only in the Osaka region, it will be deployed with an r5.large.search instance
